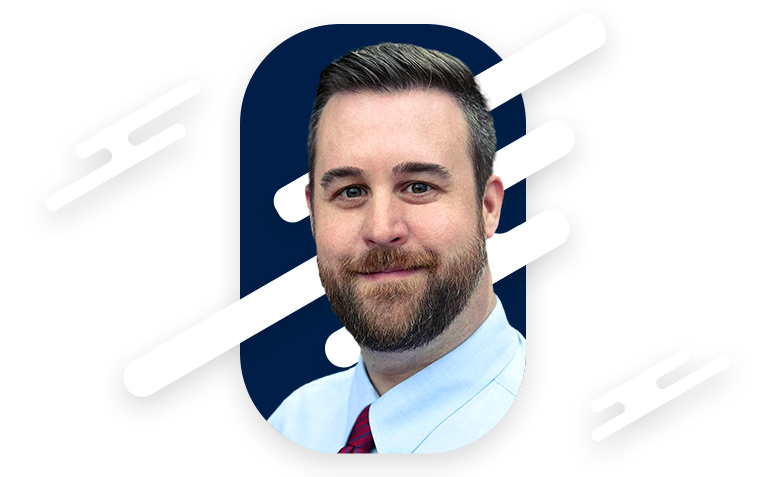
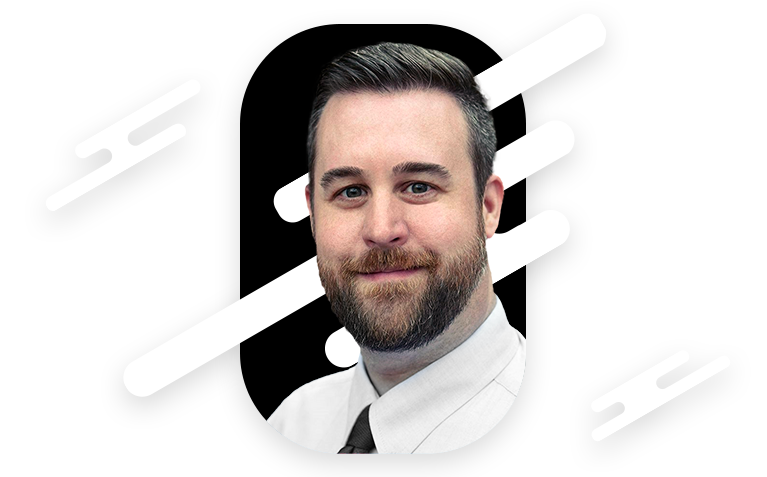
Went back to monotone color scheme

diff --git a/index.html b/index.html
@@ -45,7 +45,7 @@
 							<span class="d-block">Harrington</span>
 						</h1>
 						
-						<p class="display-6 text-beaver">Creative problem solver and award-winning web designer and developer that crafts websites to maximize user experience.</p>
+						<p class="display-6 text-warning">Creative problem solver and award-winning web designer and developer that crafts websites to maximize user experience.</p>
 					</div>
 					<div class="col">
 						<img class="img-fluid" src="/img/feature.png" alt="Headshot of Tom Harrington"
@@ -187,7 +187,7 @@
 			</div>
 		</article>
 
-		<article id="contact" class="bg-nittany text-white">
+		<article id="contact" class="bg-dark text-white">
 			<div class="container-fluid">
 				<h2 class="display-2 fw-bold lh-1">
 					<span class="d-block">Let's Stay</span>
